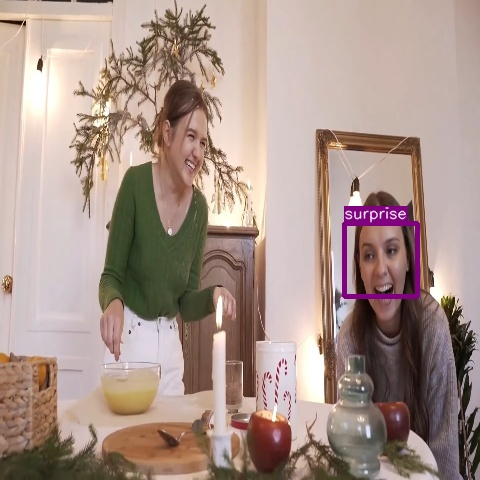
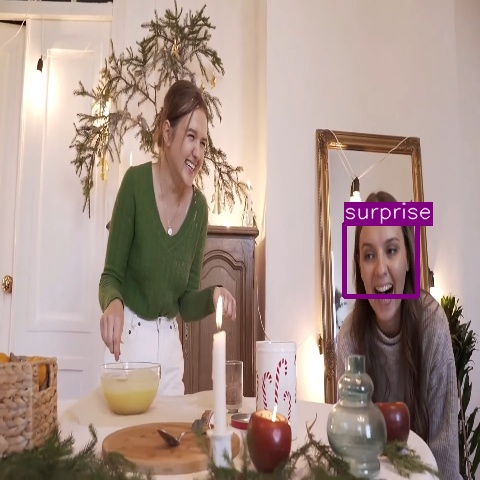
Modified the drawing function and gitignore

Changed region(s): [[0.7188, 0.4062, 0.9062, 0.4688]]

diff --git a/lib/face_detector.cpp b/lib/face_detector.cpp
@@ -7,36 +7,41 @@ void FaceDetector::draw_bbox(cv::Mat frame, std::vector<cv::Rect> faces, const s
     {
         cv::Scalar color = cv::Scalar(255, 255, 255); // default = white
         if (this->label_color.find(labels[i]) != this->label_color.end())
-        {
             color = this->label_color[labels[i]];
-        }
 
-        // Draw the Bounding box
-        cv::rectangle(frame, faces[i], color, 4);
+        // Draw the Bounding box of the detected face.
+        cv::rectangle(frame, faces[i], color, 3);
 
-        // Calcola la dimensione del testo
+        // Font parameters
+        int font_face = cv::FONT_HERSHEY_SIMPLEX;
+        double font_scale = 0.7;  
+        int thickness = 1;
+
+        // Calculating size of the text.
         int baseline = 0;
-        cv::Size textSize = cv::getTextSize(labels[i], cv::FONT_HERSHEY_SIMPLEX, 0.5, 1, &baseline);
+        cv::Size text_size = cv::getTextSize(labels[i], font_face, font_scale, thickness, &baseline);
 
-        // Posizione del testo (sopra al box)
-        cv::Point textOrg(faces[i].x, faces[i].y - 5);
+        // Position of the text.
+        cv::Point text_org(faces[i].x, faces[i].y - 5);
 
-        // Rettangolo pieno come sfondo del testo
+        // Background rectangle for text label.
         cv::rectangle(frame,
-                      textOrg + cv::Point(0, baseline), 
-                      textOrg + cv::Point(textSize.width, -textSize.height),
+                      text_org + cv::Point(0, baseline),
+                      text_org + cv::Point(text_size.width, -text_size.height),
                       color, cv::FILLED);
 
-        // Scrivi il testo in bianco sopra il rettangolo
-        cv::putText(frame, labels[i], textOrg,
-                    cv::FONT_HERSHEY_SIMPLEX,
-                    0.5, // font scale
-                    cv::Scalar(255, 255, 255), // bianco
-                    1,
-                    cv::LINE_AA);
+        // If color is yellow or white change the text color into balck.
+        cv::Scalar text_color = cv::Scalar(255, 255, 255);
+        if (labels[i] == "neutral" || labels[i] == "disgust")
+            text_color = cv::Scalar(0, 0, 0);
+
+        // Draw the text over the colored backround.
+        cv::putText(frame, labels[i], text_org,
+                    font_face, font_scale, text_color, thickness, cv::LINE_AA);
     }
 }
-//######TODO DA CONTROLLLARE ANCHE SE NON LA USIAMO PIU ho cambiato una roba si può anche rimuovere potenzialmente
+
+
 std::vector<cv::Rect> FaceDetector::vj_detect(cv::Mat frame){
 
         cv::Mat frame_gray;

diff --git a/include/face_detector.h b/include/face_detector.h
@@ -49,7 +49,7 @@ class FaceDetector{
         cv::Scalar(0, 0, 255),     // red
         cv::Scalar(0, 255, 255),   // yellow
         cv::Scalar(0, 0, 0),       // black
-        cv::Scalar(0, 255, 0),     // green
+        cv::Scalar(80, 200, 120),     // green
         cv::Scalar(255, 255, 255), // white
         cv::Scalar(255, 0, 0),     // blue
         cv::Scalar(128, 0, 128),   // purple
